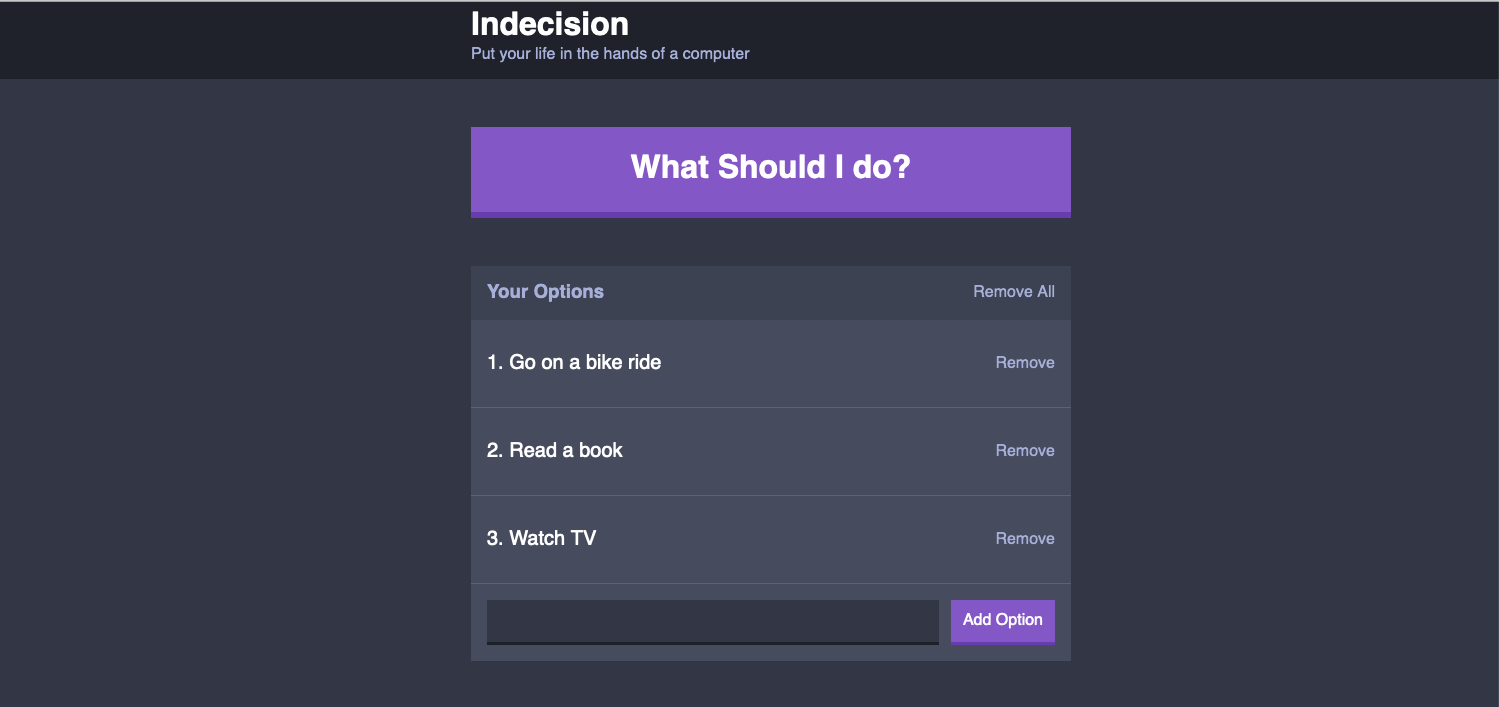
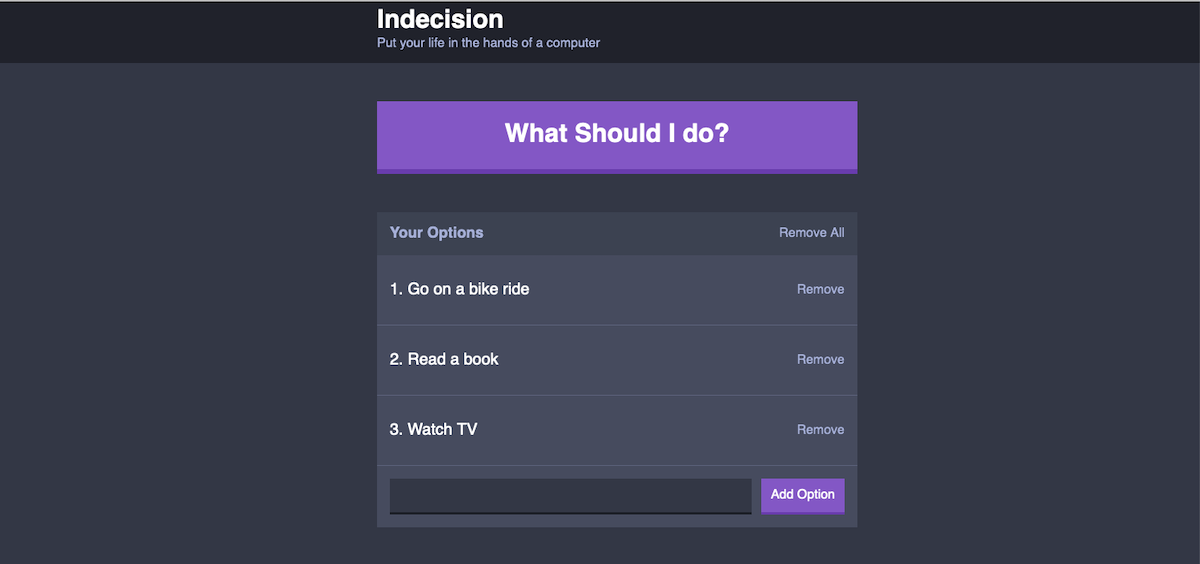
Resized images and added 404

diff --git a/gatsby-config.js b/gatsby-config.js
@@ -7,35 +7,20 @@
 module.exports = {
   /* Your site config here */
   siteMetadata: {
-    title: 'Personal Website!',
+    title: 'Sam Reichle',
     author: 'Sam Reichle'
   },
   plugins: [
     'gatsby-plugin-sass',
+    'gatsby-plugin-sharp',
+    'gatsby-transformer-sharp',
     {
       // Pulls raw content from files
       resolve: 'gatsby-source-filesystem',
       options: {
-        name: 'src',
-        path: `${__dirname}/src/`
+        name: 'images',
+        path: `${__dirname}/src/images`
       }
     },
-    'gatsby-plugin-sharp',
-    'gatsby-transformer-sharp',
-    {
-      resolve: 'gatsby-transformer-remark',
-      options: {
-        plugins: [
-          'gatsby-remark-relative-images',
-          {
-            resolve: 'gatsby-remark-images',
-            options: {
-              maxWidth: 800,
-              linkImagesToOriginal: false
-            }
-          }
-        ]
-      }
-    }
   ],
 }

diff --git a/src/pages/404.js b/src/pages/404.js
@@ -1,13 +1,22 @@
 import React from 'react';
+import { Link } from 'gatsby';
 import Layout from '../components/layout.js';
+import NotFound from '../styles/notFound.module.scss'
 
 
-const ErrorPage = () => {
-    return (
-        <Layout>
-            <p>404! Error Loading Page!</p>
-        </Layout>
-    )
-}
 
-export default ErrorPage;
+const NotFoundPage = () => (
+    <Layout>
+      <div>
+        <div>
+          <h1 className={NotFound.content}>404</h1>
+          <p className={NotFound.content}>It looks like the webpage you’re trying to reach does not exist.</p>
+          <Link to="/" className={NotFound.content}>
+            Back To Homepage
+          </Link>
+        </div>
+      </div>
+    </Layout>
+  );
+  
+  export default NotFoundPage;

diff --git a/src/styles/notFound.module.scss b/src/styles/notFound.module.scss
@@ -1,0 +1,6 @@
+.content {
+    color: white;
+    display: flex;
+    justify-content: center;
+
+}
